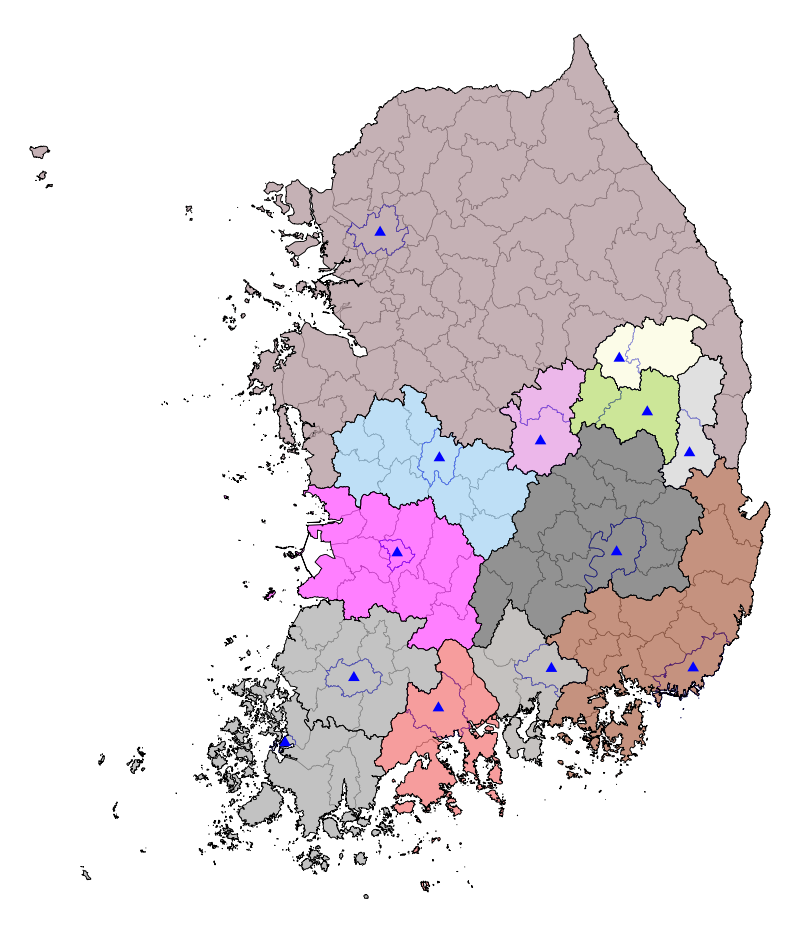
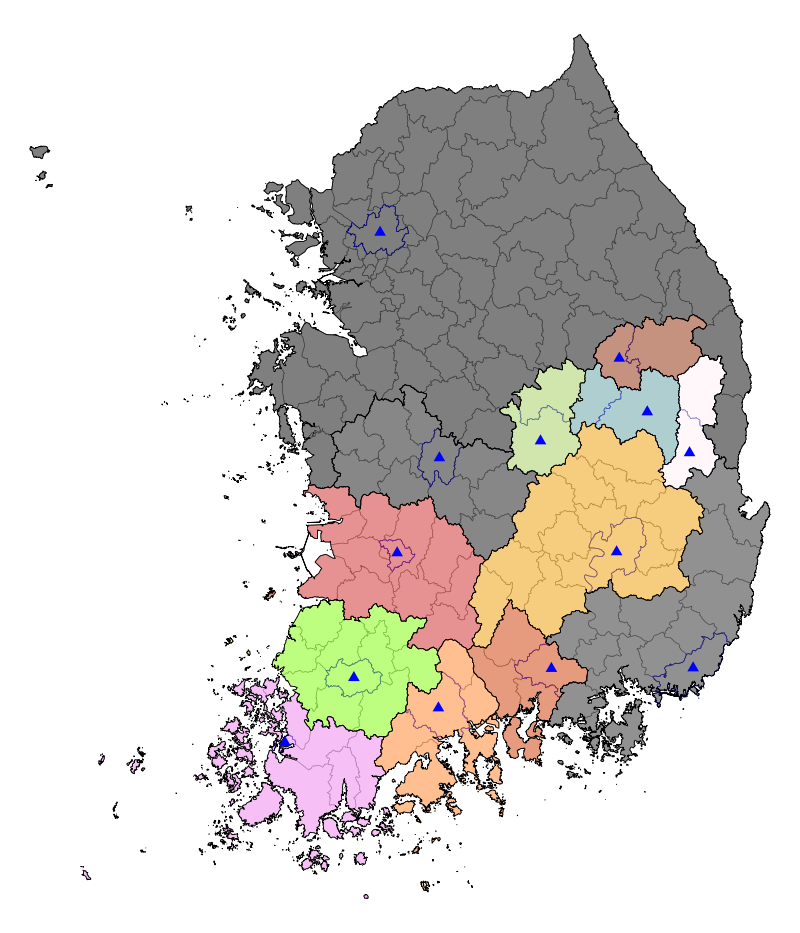
Require R >= 4.6; refresh dependency toolchain
- DESCRIPTION: Depends R (>= 4.6); version floors for Imports
  (magick >= 2.8.0, sf >= 1.0-0); roxygen2 8.0.0 docs
- set up the R 4.6 library (sf 1.1.1, magick 2.9.1, testthat 3.3.2,
  knitr 1.51, rmarkdown 2.31, roxygen2 8.0.0)
- README setup now uses library(flowbcaR) instead of
  devtools::load_all(); re-knit under R 4.6.1 (results unchanged,
  session banners updated); vignette re-synced
- full test suite (105) passes on R 4.6.1
- R CMD check --no-manual on R 4.6.1: Status OK

Claude-Session: https://claude.ai/code/session_01W94LqTWrDBGo3DfNsEmm6j

diff --git a/README.md b/README.md
@@ -62,7 +62,7 @@ workflow, where the output of one function serves as the input for the
 next. This allows for a comprehensive analysis, from initial clustering
 to final visualization.
 
-<img src="./man/figures/workflow.svg" width="100%" style="display: block; margin: auto;" />
+<img src="./man/figures/workflow.svg" alt="" width="100%" style="display: block; margin: auto;" />
 
 A typical workflow involves these steps:
 
@@ -107,8 +107,7 @@ unit IDs, and the remaining column names are the corresponding
 destination unit IDs.
 
     library(sf)
-    #> Warning: package 'sf' was built under R version 4.3.3
-    #> Linking to GEOS 3.11.2, GDAL 3.8.2, PROJ 9.3.1; sf_use_s2() is TRUE
+    #> Linking to GEOS 3.14.1, GDAL 3.12.1, PROJ 9.7.1; sf_use_s2() is TRUE
 
     # Load the sample datasets
     data(OD_SiGun)
@@ -282,7 +281,7 @@ the clusters changes.
     # The plot is interactive when the number of points is small (<= 20)
     flowbca_plot(stat_data)
 
-<img src="man/figures/README-stat-plot-example-1.png" width="90%" style="display: block; margin: auto;" />
+<img src="man/figures/README-stat-plot-example-1.png" alt="" width="90%" style="display: block; margin: auto;" />
 
 -   **Considerations**
     -   These plots are diagnostic tools. There is no single “correct”
@@ -339,7 +338,7 @@ $$
             xlab="Round", ylab="Modularity", main="Modularity vs. Clustering Step",
             xlim=rev(range(as.integer(modularity_data$round))))
 
-<img src="man/figures/README-modularity-example-1.png" width="60%" style="display: block; margin: auto;" />
+<img src="man/figures/README-modularity-example-1.png" alt="" width="60%" style="display: block; margin: auto;" />
 
 -   **Pros**
     -   Modularity is a widely accepted standard for evaluating
@@ -374,7 +373,7 @@ clustering strategies based on relative and absolute flows side by side.
     #> Stopping: The number of units in the F_matrix is less than k.
     #> Stopping: The number of units in the F_matrix is less than k.
 
-<img src="man/figures/README-diagnosis-example-1.png" width="90%" style="display: block; margin: auto;" />
+<img src="man/figures/README-diagnosis-example-1.png" alt="" width="90%" style="display: block; margin: auto;" />
 
     # The function returns the statistics used for plotting
     str(diagnosis_stat)
@@ -461,7 +460,6 @@ and flags which units act as parents.
 <!-- -->
 
     library(data.tree)
-    #> Warning: package 'data.tree' was built under R version 4.3.3
     # Create a pathString for data.tree
     hierarchy_data$pathString <- paste("Korea", hierarchy_data$hierarchy, sep="/")
     tree <- as.Node(hierarchy_data, pathName="pathString")
@@ -575,7 +573,7 @@ available for exploring the cluster structure.
     par(mar = c(9, 4, 3, 1))
     plot(busan_dend, main = "Busan cluster hierarchy")
 
-<img src="man/figures/README-dendrogram-example-1.png" width="90%" style="display: block; margin: auto;" />
+<img src="man/figures/README-dendrogram-example-1.png" alt="" width="90%" style="display: block; margin: auto;" />
 
 ### `hierarchy_cluster()`
 
@@ -659,7 +657,7 @@ dissolved clusters at that step.
     plot(gis_layers$`50`["sourceunit"], key.pos = NULL, reset = FALSE, main = "Round 50")
     plot(gis_layers$`13`["sourceunit"], key.pos = NULL, reset = FALSE, main = "Round 13 (Final)")
 
-<img src="man/figures/README-gis-example-1.png" width="90%" style="display: block; margin: auto;" />
+<img src="man/figures/README-gis-example-1.png" alt="" width="90%" style="display: block; margin: auto;" />
 
 -   **Considerations**
     -   The process can be slow if the polygons are very complex or if
@@ -692,7 +690,7 @@ as a `magick` image together with the underlying `sf` layers.
                               join_col = c('sourceunit' = 'SiGun_NM'),
                               file_nm = 'man/figures/flowbca_map.png', width = 800)
 
-<img src="man/figures/README-map-example-1.png" width="70%" style="display: block; margin: auto;" />
+<img src="man/figures/README-map-example-1.png" alt="" width="70%" style="display: block; margin: auto;" />
 
 
     # The returned list contains the image and the sf layers
@@ -728,7 +726,7 @@ clustering.
         width = 800
     )
 
-<img src="./man/figures/flowbca_clustering.gif" width="80%" style="display: block; margin: auto;" />
+<img src="./man/figures/flowbca_clustering.gif" alt="" width="80%" style="display: block; margin: auto;" />
 
 -   **Pros**
     -   Creates a powerful and intuitive visualization, perfect for